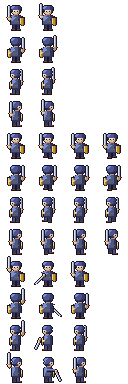
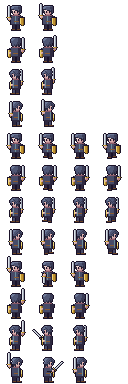
feat: ロランのユニットのシートを書き出し、正面の攻撃の候補 t2 を candidates に残す

diff --git a/pixel-asset-forge/candidates/roran/README.md b/pixel-asset-forge/candidates/roran/README.md
@@ -1,0 +1,21 @@
+# ロランの候補のコマ
+
+採用はまだ決まっていないが、ゲームで見比べるために残しているコマ。`assets/` の外に置いているので、
+`validate.py` や `export.py` の対象にはならない（ゲームには入らない）。
+
+| ファイル | 中身 | 比べる相手 |
+|---|---|---|
+| `down_atk_hit_t2.txt` | 正面の振り下ろしで、刃を斜めにして切っ先を体の中心へ 2px 寄せた案 | `assets/unit/roran/down_atk_hit.txt`（刃を真下に向けた案、今の採用） |
+
+## ゲームで試す
+
+リポジトリのルートで:
+
+```sh
+cp pixel-asset-forge/assets/unit/roran/down_atk_hit.txt /tmp/down_atk_hit.u1.txt   # 今の採用を退避
+cp pixel-asset-forge/candidates/roran/down_atk_hit_t2.txt pixel-asset-forge/assets/unit/roran/down_atk_hit.txt
+pixel-asset-forge/.venv/bin/python pixel-asset-forge/tools/export.py sprites.json assets/images
+npm run dev
+```
+
+戻すときは `git checkout -- pixel-asset-forge/assets/unit/roran/down_atk_hit.txt assets/images/roran-map.png`。
